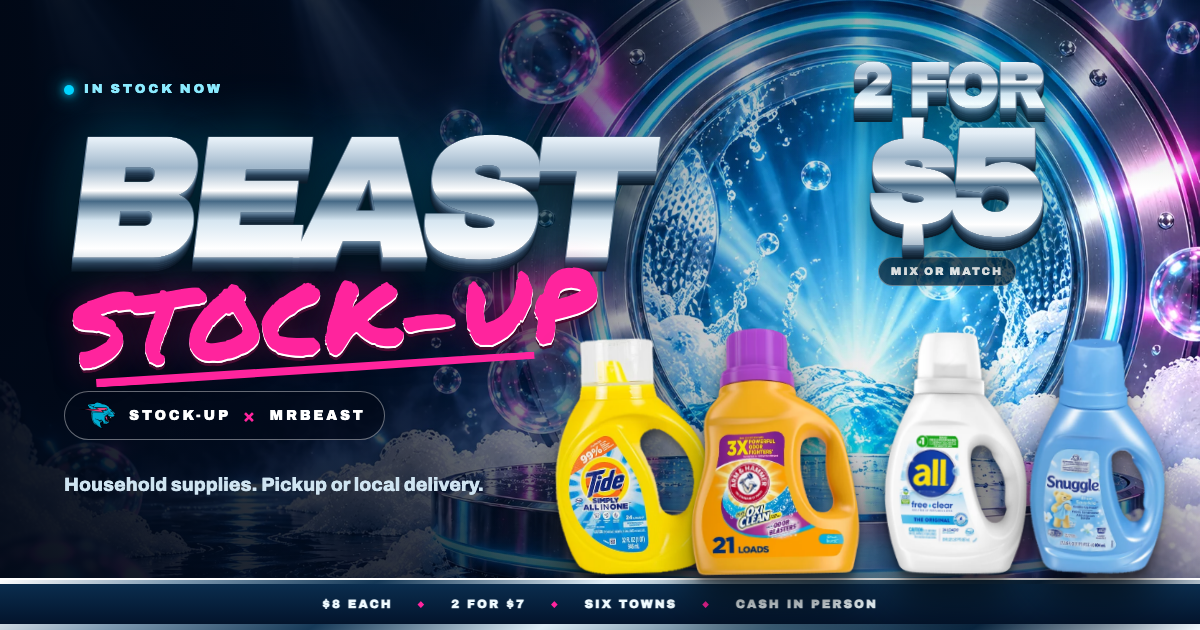
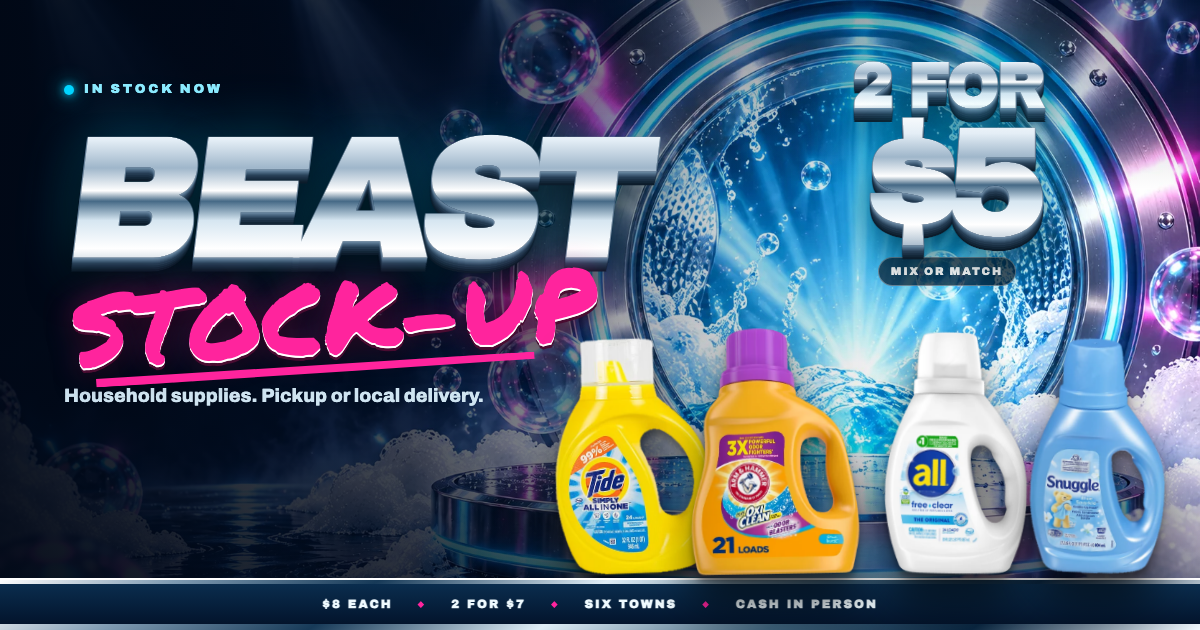
jn

Changed region(s): [[0.0617, 0.6032, 0.4008, 0.6937], [0.0308, 0.754, 0.4008, 0.7841]]

diff --git a/products.js b/products.js
@@ -40,7 +40,7 @@
     pickupSchedule: null,
     salesTaxPolicy: null,
     /* 2026-09-12, the owner's decision: THERE IS NO LONGER A FREE-DELIVERY
-       THRESHOLD. Delivery always carries the seller's small fee; the only way
+       THRESHOLD. (2026-09-15: no surface prices delivery any more, at the owner's instruction; a charge still exists but is at their discretion.) The only way
        it is waived is the FREE DELIVERY prize on the wheel, and that prize
        itself needs a list of `minItems` items. `freeMinimumItems: null` is the
        switch — every surface that used to write "20" into the page now reads
@@ -217,12 +217,12 @@
        price yet, and this file may not invent one: they show "No comparison
        price listed" and are left out of any saving until someone opens a real
        listing for each. That is the top open item in the master brief. ---- */
-    product({ id: "tide-simply-daybreak-24-loads", sourcePath: "assets/products-master/tide-simply-daybreak-24-loads.png", brand: "Tide", name: "Simply All in One", variant: "Daybreak Fresh · small bottle", size: "31 fl oz · 24 loads", category: "Liquid detergent", inventoryQuantity: 3, inventoryUnit: "bottles", packaging: "Yellow bottle · green label · clear dosing cap", quantityNote: "3 from Group 2 (2026-09-12)", inventoryStatus: "packshot-confirmed", dealGroup: "2-for-5", comparePrice: null, sourceStatus: "working_value", imageSourceType: "Retail packshot, background removed with Vision segmentation", searchTags: ["tide", "simply", "all in one", "daybreak", "green", "24 loads", "31 oz"], alt: "Tide Simply All in One Daybreak Fresh detergent, 31 fluid ounces and 24 loads" }),
+    product({ id: "tide-simply-daybreak-24-loads", sourcePath: "assets/products-master/tide-simply-daybreak-24-loads.png", brand: "Tide", name: "Simply All in One", variant: "Daybreak Fresh · small bottle", size: "31 fl oz · 24 loads", category: "Liquid detergent", inventoryQuantity: 3, inventoryUnit: "bottles", packaging: "Yellow bottle · green label · clear dosing cap", quantityNote: "3 from Group 2 (2026-09-12)", inventoryStatus: "packshot-confirmed", dealGroup: "2-for-5", comparePrice: 4.39, sourceStatus: "working_value", sourceNote: "Filled 2026-09-15. Deliberately a WORKING VALUE and not a citation. Two live US prices were observed for this exact SKU (UPC 00030772120927): King Kullen $4.79 on a page whose title carries both 31 and 24, and The Fresh Grocer $4.39 on a page whose title omits the 24. The $4.79 page is citable and was rejected anyway: King Kullen is a ~30-store Long Island chain and $4.79 was the TOP of everything observed, so citing it would inflate the saving shown to a shopper in Temecula. comparePrice is the STORE price, so the LOWER figure is the one that cannot overstate. No national retailer stocks this size citably: Target carries no Tide Simply bottle under 84 fl oz, Dollar General lists the SKU with a perfect title but is out of stock and prints no price, and Walmart/ShopRite/CVS/Home Depot block automated reads.", imageSourceType: "Retail packshot, background removed with Vision segmentation", searchTags: ["tide", "simply", "all in one", "daybreak", "green", "24 loads", "31 oz"], alt: "Tide Simply All in One Daybreak Fresh detergent, 31 fluid ounces and 24 loads" }),
     product({ id: "tide-pods-spring-meadow-42ct", sourcePath: "assets/products-master/tide-pods-spring-meadow-42ct.png", brand: "Tide", name: "PODS 3-in-1", variant: "Spring Meadow · Coldwater Clean", size: "32 oz · 42 pacs", category: "Laundry pods", inventoryQuantity: 7, inventoryUnit: "tubs", packaging: "Orange tub · purple label", quantityNote: "7 from Group 2 (2026-09-12)", inventoryStatus: "packshot-confirmed", dealGroup: "8-each", comparePrice: 12.99, sourceRetailer: "Target", sourceUrl: "https://www.target.com/p/tide-pods-laundry-detergent-pacs-spring-meadow-35oz-42ct/-/A-21516453", sourceStatus: "verified", sourceTitle: "Tide Spring Meadow HE Deep Cleaning Concentrated Laundry Detergent Pods 42 Pacs - 32oz : Target", sourcePrice: 12.99, sourceCheckedOn: "2026-09-12", sourceNote: "Opened 2026-09-12 and the live H1 read back. The URL SLUG still says 35oz-42ct from an older packaging generation; the page title says 32oz and the title is what the size guard reads. Target's own specifications block independently states Number of uses: 42.", imageSourceType: "Retail packshot, background removed with Vision segmentation", searchTags: ["tide", "pods", "3 in 1", "spring meadow", "coldwater", "42 pacs", "purple"], alt: "Tide PODS 3-in-1 Spring Meadow laundry pods, 42 pacs" }),
     product({ id: "tide-free-gentle-pods-42ct", sourcePath: "assets/products-master/tide-free-gentle-pods-42ct.png", brand: "Tide", name: "PODS Free & Gentle", variant: "Unscented · no added dyes or perfumes", size: "31 oz · 42 pacs", category: "Laundry pods", inventoryQuantity: 15, inventoryUnit: "tubs", packaging: "White tub · pale-blue label", quantityNote: "11 from Group 2 (2026-09-12) + 4 from Group 3 (2026-09-13) = 15. The owner read 32 oz off the container on 2026-09-13; the VERIFIED Target citation says 42ct/31oz, so `size` still says 31 and the disagreement is recorded here rather than silently resolved.", inventoryStatus: "packshot-confirmed", dealGroup: "8-each", comparePrice: 12.99, sourceRetailer: "Target", sourceUrl: "https://www.target.com/p/tide-pods-free-38-gentle-liquid-laundry-detergent-pacs-42-ct/-/A-50225561", sourceStatus: "verified", sourceTitle: "Tide Pods HE Compatible Laundry Detergent Pacs - Free & Gentle - 42ct/31oz: Dermatologist Tested, Hypoallergenic, Concentrated : Target", sourcePrice: 12.99, sourceCheckedOn: "2026-09-12", sourceNote: "Opened 2026-09-12. The page prints $12.99 ($0.42/ounce) and 12.99/31 = 0.419, so the unit price the retailer prints is arithmetically consistent with a 31 oz tub — a second, independent check that this is the right size. Target offers 31ct, 57ct, 76ct and 112ct from the same page, which is exactly the wrong-size trap five citations fell into before; any recheck must land back on 42ct/31oz.", imageSourceType: "Retail packshot, background removed with Vision segmentation", searchTags: ["tide", "pods", "free gentle", "unscented", "42 pacs", "sensitive"], alt: "Tide PODS Free and Gentle unscented laundry pods, 42 pacs" }),
-    product({ id: "gain-flings-original-42ct", sourcePath: "assets/products-master/gain-flings-original-42ct.png", brand: "Gain", name: "flings! Original", variant: "3-in-1 · Oxi Boost + Febreze", size: "42 flings", category: "Laundry pods", inventoryQuantity: 21, inventoryUnit: "tubs", packaging: "Green tub · green lid", quantityNote: "21 from Group 2 (2026-09-12)", inventoryStatus: "packshot-confirmed", dealGroup: "8-each", comparePrice: null, sourceStatus: "working_value", imageSourceType: "Retail packshot, background removed with Vision segmentation", searchTags: ["gain", "flings", "original", "oxi", "febreze", "42", "green"], alt: "Gain flings Original laundry detergent pods, 42 flings" }),
+    product({ id: "gain-flings-original-42ct", sourcePath: "assets/products-master/gain-flings-original-42ct.png", brand: "Gain", name: "flings! Original", variant: "3-in-1 · Oxi Boost + Febreze", size: "42 flings", category: "Laundry pods", inventoryQuantity: 21, inventoryUnit: "tubs", packaging: "Green tub · green lid", quantityNote: "21 from Group 2 (2026-09-12)", inventoryStatus: "packshot-confirmed", dealGroup: "8-each", comparePrice: 11.19, sourceStatus: "working_value", sourceNote: "Filled 2026-09-15. NO citable page exists for the 42 ct: Target's 42 ct page A-23967520 now 404s and its live Gain flings Original listing offers 15/16/31/60/102 ct only; Walmart, CVS, Foods Co and Family Dollar all block automated reads. Derived instead from a Target page that WAS opened the same day -- A-81260470, 60 pacs / 40 oz, $15.99, printing $0.40 per ounce. Two independent routes off that one listing agree: 15.99/60 = $0.2665 per pac x 42 = $11.19, and 40/60 = 0.667 oz per pac so 42 pacs = 28.0 oz x $0.40 = $11.20. It does not overstate: Walmart search metadata showed the 42 ct at $12.48 and our own verified Tide PODS 42 ct is $12.99. WARNING FOR THE NEXT SESSION: our size string is \"42 flings\", whose only numeric token is 42, and Target's SIXTY-count page is slugged ...original-42oz-60ct -- that 42 is OUNCES. Such a page would satisfy the mechanical size guard while citing a pack half again as large. Check any future citation for this row by eye.", imageSourceType: "Retail packshot, background removed with Vision segmentation", searchTags: ["gain", "flings", "original", "oxi", "febreze", "42", "green"], alt: "Gain flings Original laundry detergent pods, 42 flings" }),
     product({ id: "tide-power-pods-oxi-boost-25ct", sourcePath: "assets/products-master/tide-power-pods-oxi-boost-25ct.png", brand: "Tide", name: "Power PODS Oxi Boost", variant: "Set-In Stain Removal + Oxi Power", size: "37 oz · 25 XL pods", category: "Laundry pods", inventoryQuantity: 7, inventoryUnit: "tubs", packaging: "Orange tub · dark-blue label", quantityNote: "7 from Group 2 (2026-09-12)", inventoryStatus: "packshot-confirmed", dealGroup: "8-each", comparePrice: 12.99, sourceRetailer: "Target", sourceUrl: "https://www.target.com/p/tide-oxi-boost-laundry-detergent-power-pods-with-stain-remover-25ct/-/A-93248130", sourceStatus: "verified", sourceTitle: "Tide Oxi Boost Power HE Deep Cleaning Concentrated Laundry Detergent Pods 25 Pacs - 37oz : Target", sourcePrice: 12.99, sourceCheckedOn: "2026-09-12", sourceNote: "Opened 2026-09-12; the H1 names Oxi Boost explicitly. $12.99 ($0.35/ounce) and 12.99/37 = 0.351, consistent with a 37 oz tub. NOT the same citation as tide-power-pods-odor-oxi-25ct, which cites A-84114514 at the same 25/37 — two different products that happen to share a size, deliberately.", imageSourceType: "Retail packshot, background removed with Vision segmentation", searchTags: ["tide", "power pods", "oxi boost", "set in stain", "25 xl", "37 oz"], alt: "Tide Power PODS Oxi Boost laundry pods, 25 XL pods" }),
-    product({ id: "tide-power-pods-odor-refresh-free-gentle-25ct", sourcePath: "assets/products-master/tide-power-pods-odor-refresh-free-gentle-25ct.png", brand: "Tide", name: "Power PODS Odor Refresh Free & Gentle", variant: "Unscented", size: "37 oz · 25 XL pods", category: "Laundry pods", inventoryQuantity: 8, inventoryUnit: "tubs", packaging: "White tub · grey lid · teal label", quantityNote: "4 from Group 2 (2026-09-12) + 4 from Group 3 (2026-09-13) = 8", inventoryStatus: "packshot-confirmed", dealGroup: "8-each", comparePrice: null, sourceStatus: "working_value", imageSourceType: "Retail packshot, background removed with Vision segmentation", searchTags: ["tide", "power pods", "odor refresh", "free gentle", "unscented", "25 xl"], alt: "Tide Power PODS Odor Refresh Free and Gentle unscented pods, 25 XL pods" }),
+    product({ id: "tide-power-pods-odor-refresh-free-gentle-25ct", sourcePath: "assets/products-master/tide-power-pods-odor-refresh-free-gentle-25ct.png", brand: "Tide", name: "Power PODS Odor Refresh Free & Gentle", variant: "Unscented", size: "37 oz · 25 XL pods", category: "Laundry pods", inventoryQuantity: 8, inventoryUnit: "tubs", packaging: "White tub · grey lid · teal label", quantityNote: "4 from Group 2 (2026-09-12) + 4 from Group 3 (2026-09-13) = 8", inventoryStatus: "packshot-confirmed", dealGroup: "8-each", comparePrice: 12.99, sourceRetailer: "Target", sourceUrl: TARGET_TIDE_OXI_PODS, sourceStatus: "category_reference", sourceTitle: "Tide Odor + Oxi Original HE Deep Cleaning Concentrated Laundry Detergent Pods: 25 Capsules with Fresh Scent - 37oz : Target", sourcePrice: 12.99, sourceCheckedOn: "2026-09-15", sourceNote: "Filled 2026-09-15. A SIMILAR-SIZE reference and labelled as one on the page, not a price for this item: the size is identical (25 XL pods / 37 oz) but the cited variant is Odor + Oxi scented where ours is Odor Refresh Free & Gentle unscented. No exact-item page can be cited -- Target's only Odor Refresh Free & Gentle pod page is 45 pacs / 66 oz at $19.99, and Walmart and CVS both block automated reads and carry no 37 in their titles regardless. It does not overstate: the exact item showed $12.97 on Instacart the same day, within 0.2%. Shares A-84114514 with tide-power-pods-odor-oxi-25ct deliberately, which the one-source-one-size guard permits because both rows claim the identical size string.", imageSourceType: "Retail packshot, background removed with Vision segmentation", searchTags: ["tide", "power pods", "odor refresh", "free gentle", "unscented", "25 xl"], alt: "Tide Power PODS Odor Refresh Free and Gentle unscented pods, 25 XL pods" }),
     product({ id: "downy-gentle-ocean-mist-26oz", sourcePath: "assets/inventory-sources/master-2026-09/downy-gentle-ocean-mist-26oz.jpg", brand: "Downy", name: "Gentle Soft + Fresh", variant: "Ocean Mist", size: "26 fl oz · 39 loads", category: "Fabric softener", inventoryQuantity: 1, inventoryUnit: "bottle", packaging: "White/light-blue bottle", inventoryStatus: "photo-confirmed", dealGroup: "paper-2-for-7", comparePrice: 4.97, sourceRetailer: "Walmart", sourceUrl: WALMART_DOWNY_GENTLE, sourceStatus: "verified", sourceUnverifiable: "2026-09-12: walmart.com answers an automated browser with its bot wall, so this citation could not be re-opened. Kept for the same reason as the Kroger one, and flagged for the same reason.", imageSourceUrl: "https://www.walmart.com/ip/16584363088", searchTags: ["downy", "gentle", "soft fresh", "ocean mist", "fabric softener", "39 loads", "26 oz"], alt: "Downy Gentle Soft and Fresh Ocean Mist fabric softener, 26 fluid ounces and 39 loads" }),
     product({ id: "downy-calm-lavender-vanilla-26oz", sourcePath: "2x7 dolla/6a628b60-cd49-4c31-8c05-538989c72e2f.jpg", brand: "Downy", name: "Calm", variant: "Lavender & Vanilla Bean · 4X Fresh & Soft", size: "26 fl oz · 39 loads", category: "Fabric softener", inventoryQuantity: 2, inventoryUnit: "bottles", packaging: "Purple floral bottle", inventoryStatus: "photo-confirmed", dealGroup: "paper-2-for-7", comparePrice: 4.99, sourceStatus: "working_value", sourceRemovedOn: "2026-09-12", sourceRemovedWhy: "cited Target A-91290877, which now reads Downy Ultra Soft + Calm 93 fl oz at $12.99 — a far bigger, dearer bottle than the 26 fl oz one sold here", searchTags: ["downy", "calm", "lavender", "vanilla bean", "fabric softener", "39 loads", "26 oz"], alt: "Downy Calm Lavender and Vanilla Bean fabric softener, 26 fluid ounces and 39 loads" }),
     product({ id: "downy-cool-cotton-44oz", sourcePath: "assets/inventory-sources/master-2026-09/downy-cool-cotton-44oz.jpg", brand: "Downy", name: "Cool Cotton", variant: "2-in-1 Soft + Fresh", size: "44 fl oz · 60 loads", category: "Fabric softener", inventoryQuantity: 1, inventoryUnit: "bottle", packaging: "Blue bottle", inventoryStatus: "confirmed from later inventory photo", dealGroup: "paper-2-for-7", comparePrice: 4.97, sourceRetailer: "Walmart", sourceUrl: "https://www.walmart.com/ip/Downy-Liquid-Laundry-Fabric-Softener-and-Conditioner-Cool-Cotton-Scent-44-fl-oz-60-Loads/2038706554", sourceStatus: "verified", sourceTitle: "Downy Liquid Laundry Fabric Softener and Conditioner, Cool Cotton Scent, 44 fl oz, 60 Loads - Walmart.com", sourcePrice: 4.97, sourceCheckedOn: "2026-09-12", sourceNote: "The owner found this one by hand on 2026-09-12 and they were right. It is the only product that carried NO comparison price at all, since session 5 removed a citation that pointed at a 26 fl oz bottle. 11.3 cents/fl oz x 44 = $4.97, and the listing title carries both the 44 and the 60 so the size guard can check it.", imageSourceUrl: "https://www.stockupexpress.com/products/downy-ultra-laundry-liquid-fabric-softener-fabric-conditioner-cool-cotton-44-fl-oz-60-loads-44-fz-6-pack", searchTags: ["downy", "cool cotton", "soft fresh", "fabric softener", "60 loads", "44 oz"], alt: "Downy Cool Cotton fabric softener, 44 fluid ounces and 60 loads" }),

diff --git a/beast.css b/beast.css
@@ -26,7 +26,7 @@
      was failing WCAG AA: SPIN, MAKE MY REQUEST, CREATE THE REQUEST, START MY
      LIST and both pickup-count badges. Measured, not assumed.
 
-     The brand pink is NOT changed: the wordmark, the brush, the collab pill and
+     The brand pink is NOT changed: the wordmark, the brush and
      every pink surface are exactly as they were. Only the ink on top of it moves,
      to the same near-black the CYAN buttons have always used — so this is the
      page's own idiom rather than a new one. On #ff249d it measures 5.39:1.
@@ -242,8 +242,6 @@ button{cursor:pointer}
    as a third brand colour arriving for no reason. It is a hairline in one
    colour now, and a narrower one, so the lockup is the only thing on the boot
    screen with any weight. */
-.boot-bar{width:132px;height:2px;border-radius:99px;background:rgba(255,255,255,.14);overflow:hidden;margin-top:4px}
-.boot-bar i{display:block;height:100%;width:0;background:var(--cyan);opacity:.9}
 html.no-js .boot,html.reduced .boot{display:none}
 
 /* ---- the claw rip ----
@@ -441,9 +439,6 @@ html.shop-docked .nav{border-bottom-color:transparent}
    CSS keeps the base size -- --slogan-fit only ever nudges it, and is clamped --
    so a no-JS visit still gets a sane lockup and nothing here can run away. */
 .hero-stockup{display:block;margin-top:-.13em;--slogan-base:clamp(22px,min(8.6vw,6.2vh),88px);font-size:calc(var(--slogan-base) * var(--slogan-fit, 1))}
-.collab-pill{margin-top:clamp(6px,1.6vh,14px);display:inline-flex;align-items:center;gap:9px;padding:4px 13px 4px 8px;border:1px solid rgba(255,255,255,.35);background:rgba(1,9,24,.7);border-radius:999px;font:900 9px/1 var(--body);letter-spacing:.18em}
-.collab-pill img{width:28px;height:auto}
-.collab-pill b{color:var(--pink);font-size:13px}
 .hero-sub{display:none;max-width:460px;font-size:15px;line-height:1.5;color:#cfe4f1;margin-top:18px}
 .hero-cta .btn{white-space:nowrap}
 .hero-cta{display:none;flex-wrap:wrap;justify-content:center;gap:9px;margin-top:16px}
@@ -1065,7 +1060,30 @@ html.shop-docked .nav .stages a{pointer-events:auto}
   /* the lip highlight stays; the 59px seams that rode with it are gone, 2026-09-14 */
   background:linear-gradient(180deg,rgba(255,255,255,.10),transparent 60%)}
 .product-grid::-webkit-scrollbar{display:none}
-.product-grid.is-scrollable{cursor:grab;-webkit-user-select:none;user-select:none}
+/* SELECTION AND THE LONG-PRESS CALLOUT ARE OFF ON THE ROW UNCONDITIONALLY.
+   2026-09-15, owner: "on mobile or grabbing or touchscreen this square appears
+   when trying to run through the items". Dragging a finger along the row was
+   starting a TEXT SELECTION across the cards, and Chromium and WebKit both
+   paint a selected <img> as a translucent blue rectangle -- the square in the
+   report. `::selection{background:var(--pink)}` does not repaint that: a
+   replaced element gets the UA's own selection tint, not the page's.
+   THE OLD RULE ONLY APPLIED WITH `.is-scrollable`, which beast.js toggles from
+   `scrollWidth - clientWidth > 4` -- so it was absent before that first measure
+   and absent whenever a row happens not to overflow, which is precisely the
+   window a visitor drags in. Nobody selects text in a product carousel, so this
+   is unconditional now and the cursor stays keyed to the scrollable state.
+   `-webkit-touch-callout` stops the iOS press-and-hold panel, which is the
+   same gesture producing a second square on that platform. */
+.product-grid{-webkit-user-select:none;user-select:none;-webkit-touch-callout:none}
+/* THE CURSOR IS GATED ON THE POINTER, NOT ON THE CLASS. `is-scrollable` is set
+   on every pointer type since 2026-09-15 so the class tells the truth about the
+   row; `bindDrag` still binds the gesture only where `(pointer: fine)` matches.
+   Keying the cursor to the class alone painted an open-hand grab on a hybrid
+   device -- a touchscreen laptop, Android with a mouse -- where dragging does
+   nothing, which is the lie markScrollable's own comment exists to prevent. */
+@media (pointer: fine){
+  .product-grid.is-scrollable{cursor:grab}
+}
 /* Nothing on this page is draggable; see the note in script.js. This is the
    CSS half of it — non-standard, Chromium/WebKit only, which is exactly why it
    was not enough on its own. */
@@ -1747,7 +1765,6 @@ html.motion .delivery-stamp.is-landing{animation:stampLand .42s cubic-bezier(.2,
 }
 .cart-total{display:flex;justify-content:space-between;align-items:end;gap:12px}
 .cart-total span{font-size:11px;font-weight:800}
-.cart-total span small{font-size:7px;color:var(--cyan);letter-spacing:.1em}
 /* 44px was "way too big"; the ordering the owner asked for is kept — the
    cash total stays larger than the yellow saving (34 vs 27). */
 .cart-total strong{font:900 34px/.86 var(--display);color:#fff;letter-spacing:-.05em;text-shadow:0 3px 0 rgba(0,0,0,.35)}
@@ -1951,7 +1968,6 @@ html.motion .deal-shelf .product-card{opacity:0}
      collapsing URL bar; min() keeps it honest on a short window. */
   .hero{height:100vh;min-height:min(760px,100vh);max-height:1000px}
   .hero-bubbles{display:block}
-  .collab-pill{margin-top:20px;font-size:11px}
   /* `.hero-glow{height:56px}` deleted 2026-09-13: it could never win. This
      block is `min-width:760px`; `.hero-glow{height:64px}` sits in the family-B
      band `(min-aspect-ratio:1/1), (min-width:760px)`, which is a strict
@@ -2172,7 +2188,6 @@ html.motion .deal-shelf .product-card{opacity:0}
    scrim with a top-and-bottom one, so on every portrait tablet the hero copy
    sat on the left with no scrim under it. A dead rule that was still painting. */
 @media(max-height:820px){
-  .collab-pill{margin-top:10px;padding:5px 11px 5px 7px;font-size:8px}
   .hero-column{gap:clamp(4px,1.4vh,14px)}
 }
 
@@ -2354,8 +2369,6 @@ html.motion .deal-shelf .product-card{opacity:0}
   .hero-stockup{--slogan-base:clamp(20px,min(6vw,11vh),64px)}
   .hero-title{margin-top:10px}
   .kicker{font-size:8px}
-  .collab-pill{margin-top:8px;padding:6px 11px;font-size:8px}
-  .collab-pill img{width:20px;height:auto}
   .hero-sub{margin-top:8px;font-size:12px;max-width:340px}
   /* THE BAND WAS SIZING A BUTTON IT NEVER SHOWED. `.hero-cta` is display:none in
      the base and only turned on in the two-column desktop band, which carries
@@ -2617,7 +2630,7 @@ html.motion.late-boot .hero-price-in{opacity:1!important}
   .spin-band,.wheel-dialog,.ticket-dialog,.request,.claw,.footer-giant,
   .variant-arrow,.variant-dots,.add-button,.console,.stages,
   .savings-rip,.hero-dial,.hero-cta,.skip-link,.kicker i,
-  .collab-pill img,.footer-mark img{display:none!important}
+  .footer-mark img{display:none!important}
   /* the hero reserves a viewport of height it does not need on paper: without
      this the first sheet is the lockup and then most of a blank page */
   .hero{min-height:0!important;max-height:none!important;height:auto!important;padding:0 0 12px!important}

diff --git a/beast.js b/beast.js
@@ -172,9 +172,29 @@
   disarmImageDrag(document);
 
   function bindDrag(grid) {
+    /* MEASURE THE ROW ON EVERY POINTER TYPE, BIND THE GESTURE ON FINE ONES.
+       These two were the same statement until 2026-09-15, so `is-scrollable`
+       was never set on a touch device: the early return fired first. Measured
+       at 390x844, the three rows overflow by 946-1924px and every one of them
+       reported `is-scrollable` false at first paint, while at 1440x900 all three
+       reported true. (Precisely: the unthrottled `resize` listener above DOES
+       call markScrollable on every pointer type, so on a phone the class
+       eventually arrived when the URL bar collapsed. The broken window was first
+       paint until the first resize -- which is exactly the window a visitor
+       drags in, so the bug is real, but it was not "never".) The class was a lie on exactly the devices that scroll these rows
+       by hand, and it was gating `user-select:none` -- which is why a finger
+       dragged along a row started a TEXT SELECTION and painted the blue square
+       the owner reported. The stylesheet no longer depends on the class for
+       that, but a class named `is-scrollable` still has to be true when the row
+       scrolls. The CURSOR is now gated in the stylesheet by `(pointer: fine)`
+       instead of by this class -- setting the class on every pointer type would
+       otherwise paint a grab cursor on a hybrid device (a touchscreen laptop,
+       Android with a mouse) where `bindDrag` returns below and binds nothing,
+       which is the same lie this function's own comment warns about, pointing
+       the other way. */
+    markScrollable(grid);
     if (grid.dataset.dragBound || !finePointer) return;
     grid.dataset.dragBound = "1";
-    markScrollable(grid);
     disarmImageDrag(grid);
     let candidate = null, dragging = false, moved = 0;
     const endDrag = () => {
@@ -296,7 +316,11 @@
      80 px right at 1440 for a collision that does not exist. */
   /* What the bottles may not touch. These can push the line-up sideways OR
      shrink it, whichever costs less. */
-  const STAGE_OBSTACLES = [".collab-pill", ".hero-sub", ".hero-cta", ".hero-price"];
+  /* `.collab-pill` was here until 2026-09-15, when the owner had the pill deleted
+     ("deletet this whole pill"). A selector that matches nothing is not harmless
+     in this list -- `boxOf()` returns null and the obstacle silently stops
+     existing, which is the quiet direction -- so it is removed rather than left. */
+  const STAGE_OBSTACLES = [".hero-sub", ".hero-cta", ".hero-price"];
   /* And what they may not COVER. Owner, 2026-09-12: "the P from STOCK-UP is
      covered too much by the bottles." Measured before the fix: the last letter
      was 62% covered at 1440x900 and 92% at 1728x1100 — not an edge case, the
@@ -1797,7 +1821,17 @@
   window.addEventListener("error", releaseBoot);
   window.addEventListener("unhandledrejection", releaseBoot);
 
-  function waitForHeroAssets(onProgress) {
+  function waitForHeroAssets(onProgress = () => {}) {
+    /* THE DEFAULT IS LOAD-BEARING, and it is here because the obvious tidy-up
+       is fatal. `progress` became write-only on 2026-09-15 when the boot bar was
+       deleted -- its only reader was the filler tween, which is now null. So a
+       later session deletes the unused variable, then removes this argument at the
+       call site, and `onProgress` is undefined. `tick()` is called SYNCHRONOUSLY
+       inside the .map() below for any already-cached image, so the TypeError
+       escapes before `.then()` is ever attached: no finishBoot, no heroIntro,
+       and the rest of this file's top-level body aborts. The splash then sits
+       until the 8s deadline and releaseBoot() uncovers a blank hero. Found by
+       audit. One default parameter closes it; keep it even if the argument goes. */
     const images = [...document.querySelectorAll(".hero-plate img, [data-hero-product]")];
     let done = 0;
     const total = images.length + 1;
@@ -1859,11 +1893,32 @@
        to 380 ms on 2026-09-11: it is there so the wipe does not stutter, not to
        make the visitor watch a progress bar, and on a warm cache the whole
        screen was a second of nothing. */
-    const filler = gsap.to({ v: 0 }, { v: 1, duration: bootedBefore ? .3 : .8, ease: "power2.out", onUpdate() { gsap.set(bootBar, { width: `${Math.max(progress, this.targets()[0].v * .8) * 100}%` }); } });
+    /* THE HOLD IS A TIMER, NOT A BAR. 2026-09-15, when the owner had the blue
+       progress line deleted from the splash. `finishBoot` used to hang off the
+       onComplete of a tween TARGETING that bar, so removing the element would
+       have made the entire splash-release depend on a tween with no target.
+
+       CORRECTED THE SAME DAY, BY MEASUREMENT, BECAUSE THE SENTENCE ABOVE OVERSTATED
+       IT: an audit executed these exact shapes against this repo's own vendored
+       GSAP 3.13 and `gsap.to(null, {onComplete})` DOES fire its onComplete. The
+       old code would have produced console noise every frame -- the filler's
+       onUpdate calls `gsap.set(bootBar, ...)` -- not a hung splash. The
+       restructure is still right for a better reason: the splash is the one
+       thing on this page that must never depend on anything (trap 12), and that
+       includes depending on a LIBRARY'S TOLERANCE for a target that no longer
+       exists. It is an object tween now and fires on its own terms; the bar half
+       is kept and guarded so re-adding one is a markup change and nothing more. */
+    const filler = bootBar
+      ? gsap.to({ v: 0 }, { v: 1, duration: bootedBefore ? .3 : .8, ease: "power2.out", onUpdate() { gsap.set(bootBar, { width: `${Math.max(progress, this.targets()[0].v * .8) * 100}%` }); } })
+      : null;
     waitForHeroAssets((p) => { progress = p; }).then(() => {
       const minimum = bootedBefore ? 160 : 380;
       const wait = Math.max(0, minimum - (performance.now() - start));
-      setTimeout(() => { filler.kill(); gsap.to(bootBar, { width: "100%", duration: .25, onComplete: finishBoot }); }, wait);
+      setTimeout(() => {
+        if (filler) filler.kill();
+        if (bootBar) gsap.to(bootBar, { width: "100%", duration: .25 });
+        gsap.to({}, { duration: .25, onComplete: finishBoot });
+      }, wait);
     });
   } else {
     heroIntro.play();

diff --git a/prize-art.js b/prize-art.js
@@ -4,7 +4,7 @@
    stay external files so a trademark is never recoloured. */
 (function () {
   "use strict";
-  var SPRITE = "<symbol id=\"prize-off-coin\" viewBox=\"0 0 64 64\"><g fill=\"none\" stroke=\"currentColor\" stroke-width=\"3.6\" stroke-linecap=\"round\" stroke-linejoin=\"round\"><ellipse cx=\"36\" cy=\"24\" rx=\"16\" ry=\"15.5\" opacity=\".38\"/><ellipse cx=\"26\" cy=\"37\" rx=\"19\" ry=\"18.5\"/><path d=\"M26 26.5v21M31.6 31.4a6.6 6.6 0 0 0-5.6-2.9c-3.6 0-6 1.9-6 4.6 0 5.9 12 3.2 12 9.2 0 2.8-2.6 4.7-6 4.7a6.8 6.8 0 0 1-5.9-3\"/></g></symbol><symbol id=\"prize-free-delivery\" viewBox=\"0 0 64 64\"><g fill=\"none\" stroke=\"currentColor\" stroke-width=\"3.6\" stroke-linecap=\"round\" stroke-linejoin=\"round\"><path d=\"M16 20h18v23H16z\"/><path d=\"M34 27h8.6a4 4 0 0 1 3.2 1.6L51 35.4a4 4 0 0 1 .8 2.4V43H34z\"/><circle cx=\"23\" cy=\"47\" r=\"4.6\"/><circle cx=\"44\" cy=\"47\" r=\"4.6\"/><path d=\"M27.6 47h11.8\"/><path d=\"M12 27H4M14 34H7M12 41H4\" opacity=\".55\"/></g></symbol><symbol id=\"prize-free-item\" viewBox=\"0 0 64 64\"><g fill=\"none\" stroke=\"currentColor\" stroke-width=\"3.6\" stroke-linecap=\"round\" stroke-linejoin=\"round\"><path d=\"M26 6h12v7.4l6.4 6.6a10 10 0 0 1 2.8 7V54a4 4 0 0 1-4 4H20.8a4 4 0 0 1-4-4V27a10 10 0 0 1 2.8-7l6.4-6.6z\"/><path d=\"M17 33h30\" opacity=\".7\"/><path d=\"M28 43h8\" opacity=\".5\"/></g></symbol><symbol id=\"prize-try-again\" viewBox=\"0 0 64 64\"><g fill=\"none\" stroke=\"currentColor\" stroke-width=\"3.8\" stroke-linecap=\"round\" stroke-linejoin=\"round\"><path d=\"M52 32a20 20 0 1 1-5.9-14.1\"/><path d=\"M47.6 6.6V19H35.2\"/></g></symbol><symbol id=\"prize-car\" viewBox=\"0 0 64 64\"><g fill=\"none\" stroke=\"currentColor\" stroke-width=\"3.4\" stroke-linecap=\"round\" stroke-linejoin=\"round\"><path d=\"M5 40v-5.2a5 5 0 0 1 3.3-4.7l7.6-2.7 6.2-6.6A8 8 0 0 1 28 18h9.5a8 8 0 0 1 5.6 2.3l6.5 6.4 5.6 1.9A5 5 0 0 1 59 33.3V40a2 2 0 0 1-2 2h-4\"/><path d=\"M11 42H7a2 2 0 0 1-2-2\"/><path d=\"M24 42h16\"/><circle cx=\"17.5\" cy=\"42\" r=\"5.4\"/><circle cx=\"46.5\" cy=\"42\" r=\"5.4\"/><path d=\"M22 27h20\" opacity=\".7\"/><path d=\"M31.5 19v8\" opacity=\".7\"/></g></symbol>";
+  var SPRITE = "<symbol id=\"prize-off-coin\" viewBox=\"0 0 64 64\"><path fill=\"currentColor\" fill-rule=\"evenodd\" d=\"M7 32A25 25 0 1 1 57 32A25 25 0 1 1 7 32ZM10.6 32A21.4 21.4 0 1 1 53.4 32A21.4 21.4 0 1 1 10.6 32ZM12.6 32A19.4 19.4 0 1 1 51.4 32A19.4 19.4 0 1 1 12.6 32ZM39.79 22.37A8.6 8.6 0 1 0 32 34.6A3.4 3.4 0 1 1 28.92 39.44L24.21 41.63A8.6 8.6 0 1 0 32 29.4A3.4 3.4 0 1 1 35.08 24.56ZM29.8 14.79L34.2 14.79L34.2 17.69A8.6 8.6 0 0 0 29.8 17.69ZM34.2 49.21L29.8 49.21L29.8 46.31A8.6 8.6 0 0 0 34.2 46.31Z\"/></symbol><symbol id=\"prize-free-delivery\" viewBox=\"0 0 64 64\"><g fill=\"none\" stroke=\"currentColor\" stroke-width=\"3.6\" stroke-linecap=\"round\" stroke-linejoin=\"round\"><path d=\"M16 20h18v23H16z\"/><path d=\"M34 27h8.6a4 4 0 0 1 3.2 1.6L51 35.4a4 4 0 0 1 .8 2.4V43H34z\"/><circle cx=\"23\" cy=\"47\" r=\"4.6\"/><circle cx=\"44\" cy=\"47\" r=\"4.6\"/><path d=\"M27.6 47h11.8\"/><path d=\"M12 27H4M14 34H7M12 41H4\" opacity=\".55\"/></g></symbol><symbol id=\"prize-free-item\" viewBox=\"0 0 64 64\"><g fill=\"none\" stroke=\"currentColor\" stroke-width=\"3.6\" stroke-linecap=\"round\" stroke-linejoin=\"round\"><path d=\"M26 6h12v7.4l6.4 6.6a10 10 0 0 1 2.8 7V54a4 4 0 0 1-4 4H20.8a4 4 0 0 1-4-4V27a10 10 0 0 1 2.8-7l6.4-6.6z\"/><path d=\"M17 33h30\" opacity=\".7\"/><path d=\"M28 43h8\" opacity=\".5\"/></g></symbol><symbol id=\"prize-try-again\" viewBox=\"0 0 64 64\"><g fill=\"none\" stroke=\"currentColor\" stroke-width=\"4.8\" stroke-linecap=\"round\"><path d=\"M13.83 24.66A19.6 19.6 0 0 1 50.42 25.3\"/><path d=\"M50.17 39.34A19.6 19.6 0 0 1 13.58 38.7\"/></g><path fill=\"currentColor\" d=\"M53.91 34.88L55.68 23.38L45.16 27.21Z\"/><path fill=\"currentColor\" d=\"M10.09 29.12L8.32 40.62L18.84 36.79Z\"/></symbol><symbol id=\"prize-car\" viewBox=\"0 0 64 64\"><g fill=\"none\" stroke=\"currentColor\" stroke-width=\"3.4\" stroke-linecap=\"round\" stroke-linejoin=\"round\"><path d=\"M5 40v-5.2a5 5 0 0 1 3.3-4.7l7.6-2.7 6.2-6.6A8 8 0 0 1 28 18h9.5a8 8 0 0 1 5.6 2.3l6.5 6.4 5.6 1.9A5 5 0 0 1 59 33.3V40a2 2 0 0 1-2 2h-4\"/><path d=\"M11 42H7a2 2 0 0 1-2-2\"/><path d=\"M24 42h16\"/><circle cx=\"17.5\" cy=\"42\" r=\"5.4\"/><circle cx=\"46.5\" cy=\"42\" r=\"5.4\"/><path d=\"M22 27h20\" opacity=\".7\"/><path d=\"M31.5 19v8\" opacity=\".7\"/></g></symbol>";
   var BRAND = {
   "dutch-bros": {
     "src": "assets/prizes/dutch-bros.svg",

diff --git a/index.html b/index.html
@@ -115,7 +115,6 @@
     <div class="boot-in">
       <img draggable="false" class="boot-panther" src="assets/beast-lab/mrbeast-panther.svg" alt="" width="150" height="107">
       <p class="boot-word"><span class="boot-beast"><span class="chrome chrome-md" data-text="BEAST">BEAST</span></span><span class="brush brush-sm">STOCK-UP</span></p>
-      <div class="boot-bar"><i data-boot-bar></i></div>
     </div>
   </div>
 
@@ -230,14 +229,15 @@
           <!-- THE SLOGAN, not the business name. Owner, 2026-09-12: "we will do
                the 'beast of a deal' slogan in the main view, instead of
                Stock-Up." So the HERO carries the pitch and everything else
-               carries the identity — the nav lockup, the boot screen, the
-               footer mark, the collab pill and the copied request all still say
-               STOCK-UP, because that is the business and it survives whether or
-               not the collab does. This is the one surface that is an
+               carries the identity. CORRECTED 2026-09-15: of the five surfaces
+               this used to list, only the BOOT SCREEN still says STOCK-UP. The
+               nav lockup reads beast.deal, the footer mark reads OF A DEAL, the
+               copied request's title line was deleted on 2026-09-14, and the
+               collab pill was deleted outright on 2026-09-15 at the owner's
+               instruction. The panther stays on every surface it was already on. This is the one surface that is an
                advertisement rather than a name. -->
           <span class="hero-stockup" data-hero-stock><span class="brush">OF A DEAL</span></span>
         </h1>
-        <p class="collab-pill" data-hero-line><img draggable="false" src="assets/beast-lab/mrbeast-panther.svg" alt="" width="34" height="24">STOCK-UP <b>×</b> MRBEAST</p>
         <p class="hero-sub" data-hero-line>Household supplies. Cash in person. Pickup or local delivery.</p>
         <!-- One button. "SEE WHAT'S IN STOCK" sat next to a nav link reading
              IN STOCK and a kicker reading IN STOCK NOW, and the second button
@@ -543,8 +543,10 @@
 
       <!-- The meter used to count every list toward twenty. There is no
            twenty: it appears only when a FREE DELIVERY prize is in hand and
-           this list is still short of what that prize needs. With no prize it
-           is one quiet line saying delivery costs a small fee. -->
+           this list is still short of what that prize needs. With no prize the
+           slot is EMPTY and collapses: the fee sentence was deleted on
+           2026-09-15 at the owner's instruction ("just delivery period. Pickup
+           period.") and deliveryMessage() returns "" for that branch. -->
       <div class="delivery-row" data-delivery-row>
         <div class="delivery-meter" data-delivery-meter hidden>
           <p><b data-delivery-left>0</b> more items to use FREE DELIVERY</p>

diff --git a/script.js b/script.js
@@ -972,7 +972,7 @@
   /* DELIVERY, from 2026-09-12.
 
      There is no free-delivery threshold any more. `freeMinimumItems` is null
-     in SITE_CONFIG and delivery always carries the seller's small fee — the
+     in SITE_CONFIG. Delivery is no longer priced on any surface (2026-09-15, owner's instruction); a charge still exists but is at their discretion — the
      ONLY thing that waives it is the FREE DELIVERY prize, and that prize has
      its own item minimum. Every number below is read from the prize, so the
      three surfaces that print one (the meter, the stamp, the request text)
